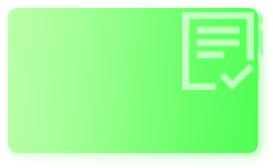
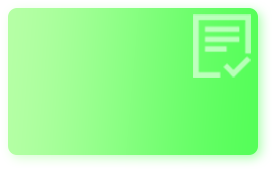
替换默认图片 去掉多余文字 首页加俩卡片样式

Changed region(s): [[0.6447, 0.0595, 0.967, 0.5357]]

diff --git a/urban-management-web/src/main/resources/templates/page/workbench.html b/urban-management-web/src/main/resources/templates/page/workbench.html
@@ -41,11 +41,12 @@
                                         <div class="test3">本周</div>
                                     </div>
                                     <div class="block">
-                                        <img th:src="@{/img/ground3.png}" alt="">
-                                        <div class="test1">立案数</div>
-                                        <div class="test2" id="inst">180</div>
+                                        <img th:src="@{/img/ground5.png}" alt="">
+                                        <div class="test1">受理数</div>
+                                        <div class="test2" >90</div>
                                         <div class="test3">本周</div>
                                     </div>
+
                                 </div>
                                 <!--                        表格处-->
 
@@ -70,6 +71,12 @@
                             <div class="vneterBox">
                                 <div class="manner">
                                     <div class="block">
+                                        <img th:src="@{/img/ground3.png}" alt="">
+                                        <div class="test1">立案数</div>
+                                        <div class="test2" id="inst">180</div>
+                                        <div class="test3">本周</div>
+                                    </div>
+                                    <div class="block">
                                         <img th:src="@{/img/ground33.png}" alt="">
                                         <div class="test1">派遣数</div>
                                         <div class="test2" id="dispatch">90</div>
@@ -81,12 +88,7 @@
                                         <div class="test2" id="dispose">90</div>
                                         <div class="test3">本周</div>
                                     </div>
-                                    <div class="block">
-                                        <img th:src="@{/img/ground4.png}" alt="">
-                                        <div class="test1">结案数</div>
-                                        <div class="test2" id="close">20</div>
-                                        <div class="test3">本周</div>
-                                    </div>
+
                                 </div>
                                 <!--                        表格处-->
                                 <div class="mannertable autotable">
@@ -107,28 +109,44 @@
                                 </div>
                             </div>
                             <div class="vneterBox">
-                                <div class="manner userManner">
-                                    <div class="userBox">
-                                        <div class="headImg">
-                                            <div class="headerImg">
-                                                <img th:src="@{/img/header.png}" alt="">
-                                            </div>
-                                        </div>
-                                        <div class="username">
-                                            <div class="adminName" th:sec:authentication="principal.name"></div>
-                                        </div>
-                                        <div class="purpose">
+                                <div class="manner">
 
-<!--                                            <div class="book">-->
-<!--                                                <div class="bookBox">-->
-<!--                                                    <img th:src="@{/img/self.png}" alt="">-->
-<!--                                                    <div class="bookText" >用户</div>-->
-<!--                                                </div>-->
-<!--                                            </div>-->
-
-                                        </div>
+                                    <div class="block">
+                                        <img th:src="@{/img/ground6.png}" alt="">
+                                        <div class="test1">处置数</div>
+                                        <div class="test2" >20</div>
+                                        <div class="test3">本周</div>
+                                    </div>
+                                    <div class="block">
+                                        <img th:src="@{/img/ground4.png}" alt="">
+                                        <div class="test1">结案数</div>
+                                        <div class="test2" id="close">20</div>
+                                        <div class="test3">本周</div>
                                     </div>
                                 </div>
+
+<!--                                <div class="manner userManner">-->
+<!--                                    <div class="userBox">-->
+<!--                                        <div class="headImg">-->
+<!--                                            <div class="headerImg">-->
+<!--                                                <img th:src="@{/img/header.png}" alt="">-->
+<!--                                            </div>-->
+<!--                                        </div>-->
+<!--                                        <div class="username">-->
+<!--                                            <div class="adminName" th:sec:authentication="principal.name"></div>-->
+<!--                                        </div>-->
+<!--                                        <div class="purpose">-->
+
+<!--&lt;!&ndash;                                            <div class="book">&ndash;&gt;-->
+<!--&lt;!&ndash;                                                <div class="bookBox">&ndash;&gt;-->
+<!--&lt;!&ndash;                                                    <img th:src="@{/img/self.png}" alt="">&ndash;&gt;-->
+<!--&lt;!&ndash;                                                    <div class="bookText" >用户</div>&ndash;&gt;-->
+<!--&lt;!&ndash;                                                </div>&ndash;&gt;-->
+<!--&lt;!&ndash;                                            </div>&ndash;&gt;-->
+
+<!--                                        </div>-->
+<!--                                    </div>-->
+<!--                                </div>-->
                                 <!--                                                    表格处-->
                                 <div class="mannertable">
                                     <table class="table">

diff --git a/urban-management-web/src/main/resources/templates/page/event/caseInquiry/list.html b/urban-management-web/src/main/resources/templates/page/event/caseInquiry/list.html
@@ -35,7 +35,7 @@
                                     </td>
                                 </tr>
                                 <tr>
-                                    <td><span></span>1所在网格</td>
+                                    <td><span></span>所在网格</td>
                                     <td>
                                         <select class="form-control" id="grid1" name="grid" required>
                                             <option value="">--请选择--</option>

diff --git a/urban-management-web/src/main/resources/static/css/common.css b/urban-management-web/src/main/resources/static/css/common.css
@@ -2048,8 +2048,8 @@ span.search_highlight {
 .nothing_case{
     background: url("../img/zanwuCase.png");
     background-size: 100% 100%;
-    width: 155px;
-    height: 128px;
+    width: 355px;
+    height: 231px;
 }
 .noneActives{
     display: none;
